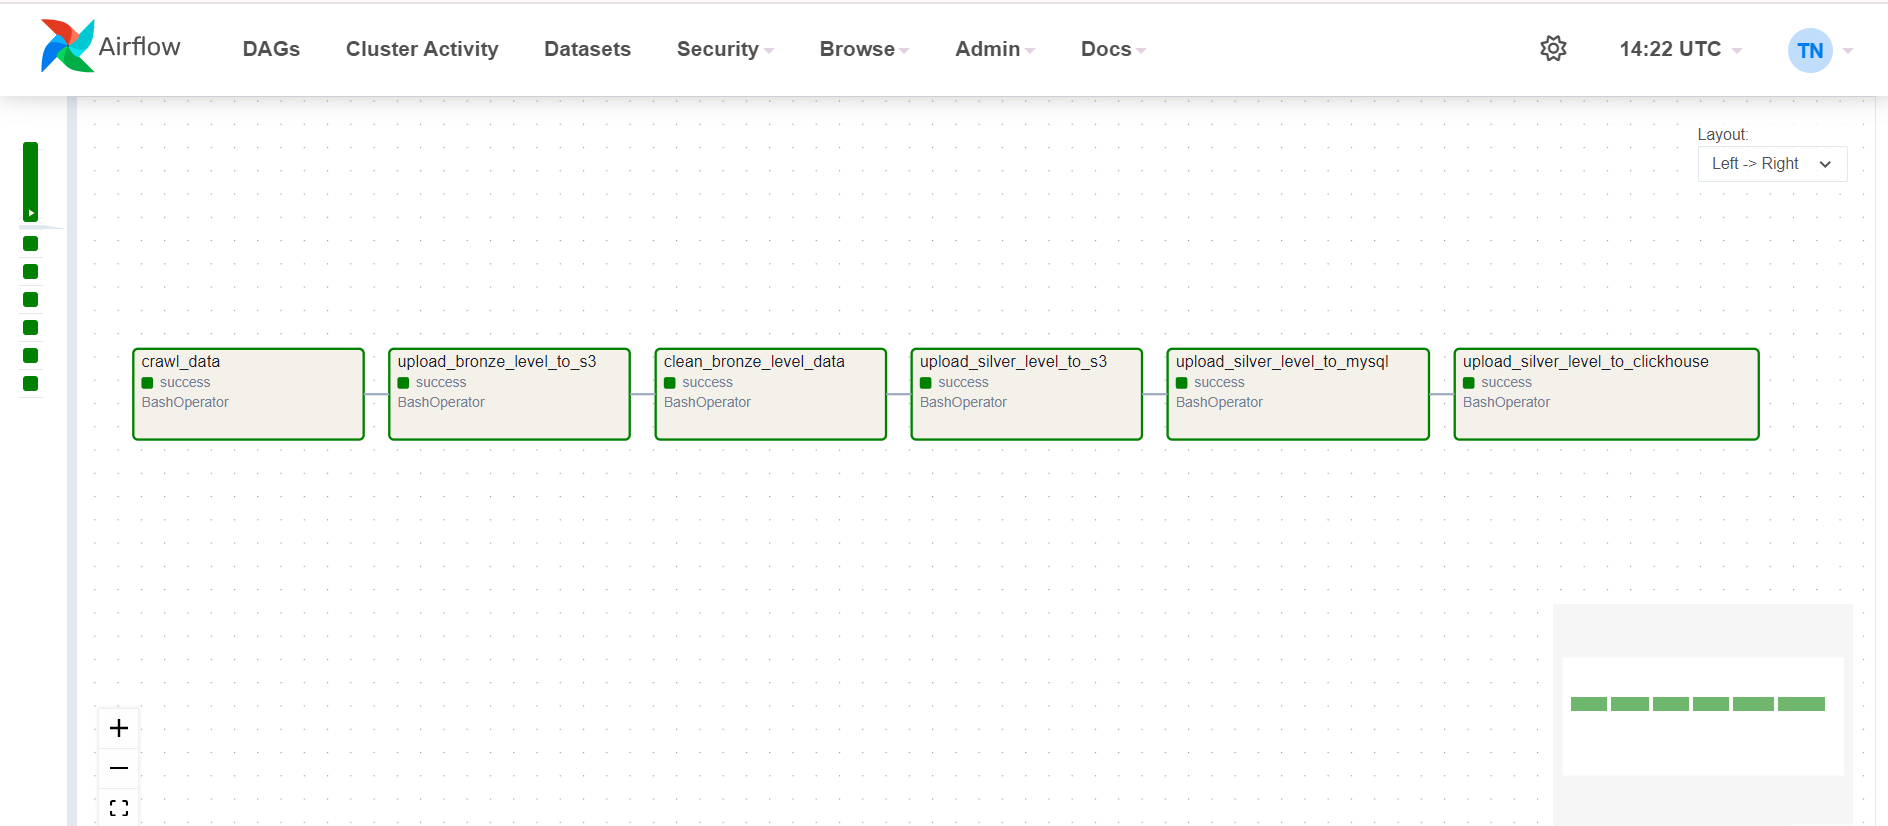
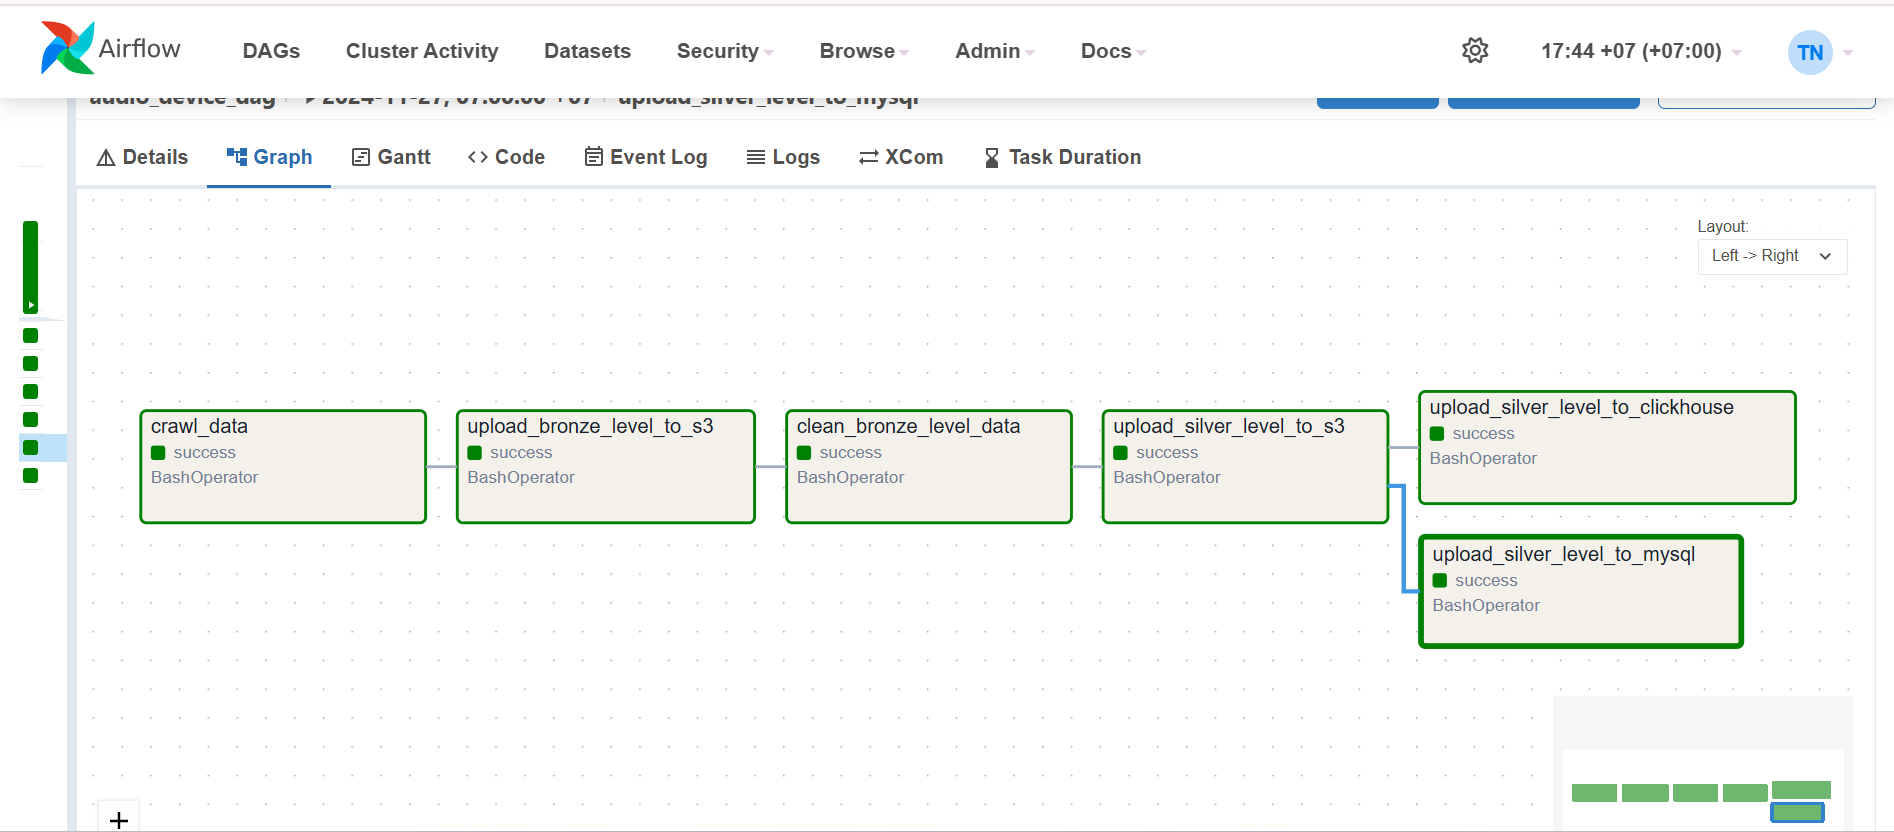
Change dag_tasks.png

diff --git a/airflow/clean_bronze_level_data.py b/airflow/clean_bronze_level_data.py
@@ -48,13 +48,13 @@ def clean_data(df):
             df.at[index, 'price_msrp'] = -1
 
         # Replacing ? device prices with -1
-        elif re.search('\\?', str(row['price_msrp'])):
+        if re.search('\\?', str(row['price_msrp'])):
             df.at[index, 'price_msrp'] = -1
-        elif row['driver_type'] == '?':
+        if row['driver_type'] == '?':
             df.at[index, 'driver_type'] = ''
         # Some prices have models embedded to them, this replaces with only price
         # Ex: 3000(HE1000) gives 3000
-        elif re.search('[a-zA-Z]', str(row['price_msrp'])):
+        if re.search('[a-zA-Z]', str(row['price_msrp'])):
             price_only = list(filter(None, re.split(r'(\d+)', str(row['price_msrp']))))[0]
             df.at[index, 'price_msrp'] = price_only
 

diff --git a/airflow/dags/dag.py b/airflow/dags/dag.py
@@ -32,4 +32,4 @@ with DAG(
         task_id='upload_silver_level_to_clickhouse',
         bash_command='python /opt/airflow/tasks/work_with_clickhouse/upload_data_to_clickhouse.py'
     )
-crawl_data >> upload_bronze_level_to_s3 >> clean_bronze_level_data >> upload_silver_level_to_s3 >> upload_silver_level_to_mysql >> upload_silver_level_to_clickhouse
+crawl_data >> upload_bronze_level_to_s3 >> clean_bronze_level_data >> upload_silver_level_to_s3 >> [upload_silver_level_to_clickhouse, upload_silver_level_to_mysql]

diff --git a/airflow/tasks/work_with_clickhouse/upload_data_to_clickhouse.py b/airflow/tasks/work_with_clickhouse/upload_data_to_clickhouse.py
@@ -14,9 +14,9 @@ except Exception as e:
     print(f"Error when connecting to clickhouse: {e}")
 
 # Initialize client for using s3
-access_key = 'vB6i7ypeoFkJ4zt7vxTi'
-secret_key = 'alrHll6vHuPh8ap0VWYYGbwdRUafnpqlh8eSTdJ9'
-bucket_name = 'audio-device-data'
+access_key = config['S3_ACCESS_KEY']
+secret_key = config['S3_SECRET_KEY']
+bucket_name = config['S3_BUCKET_NAME']
 endpoint_url = 'http://minio-minio-1:9000'
 
 s3 = boto3.client('s3',
